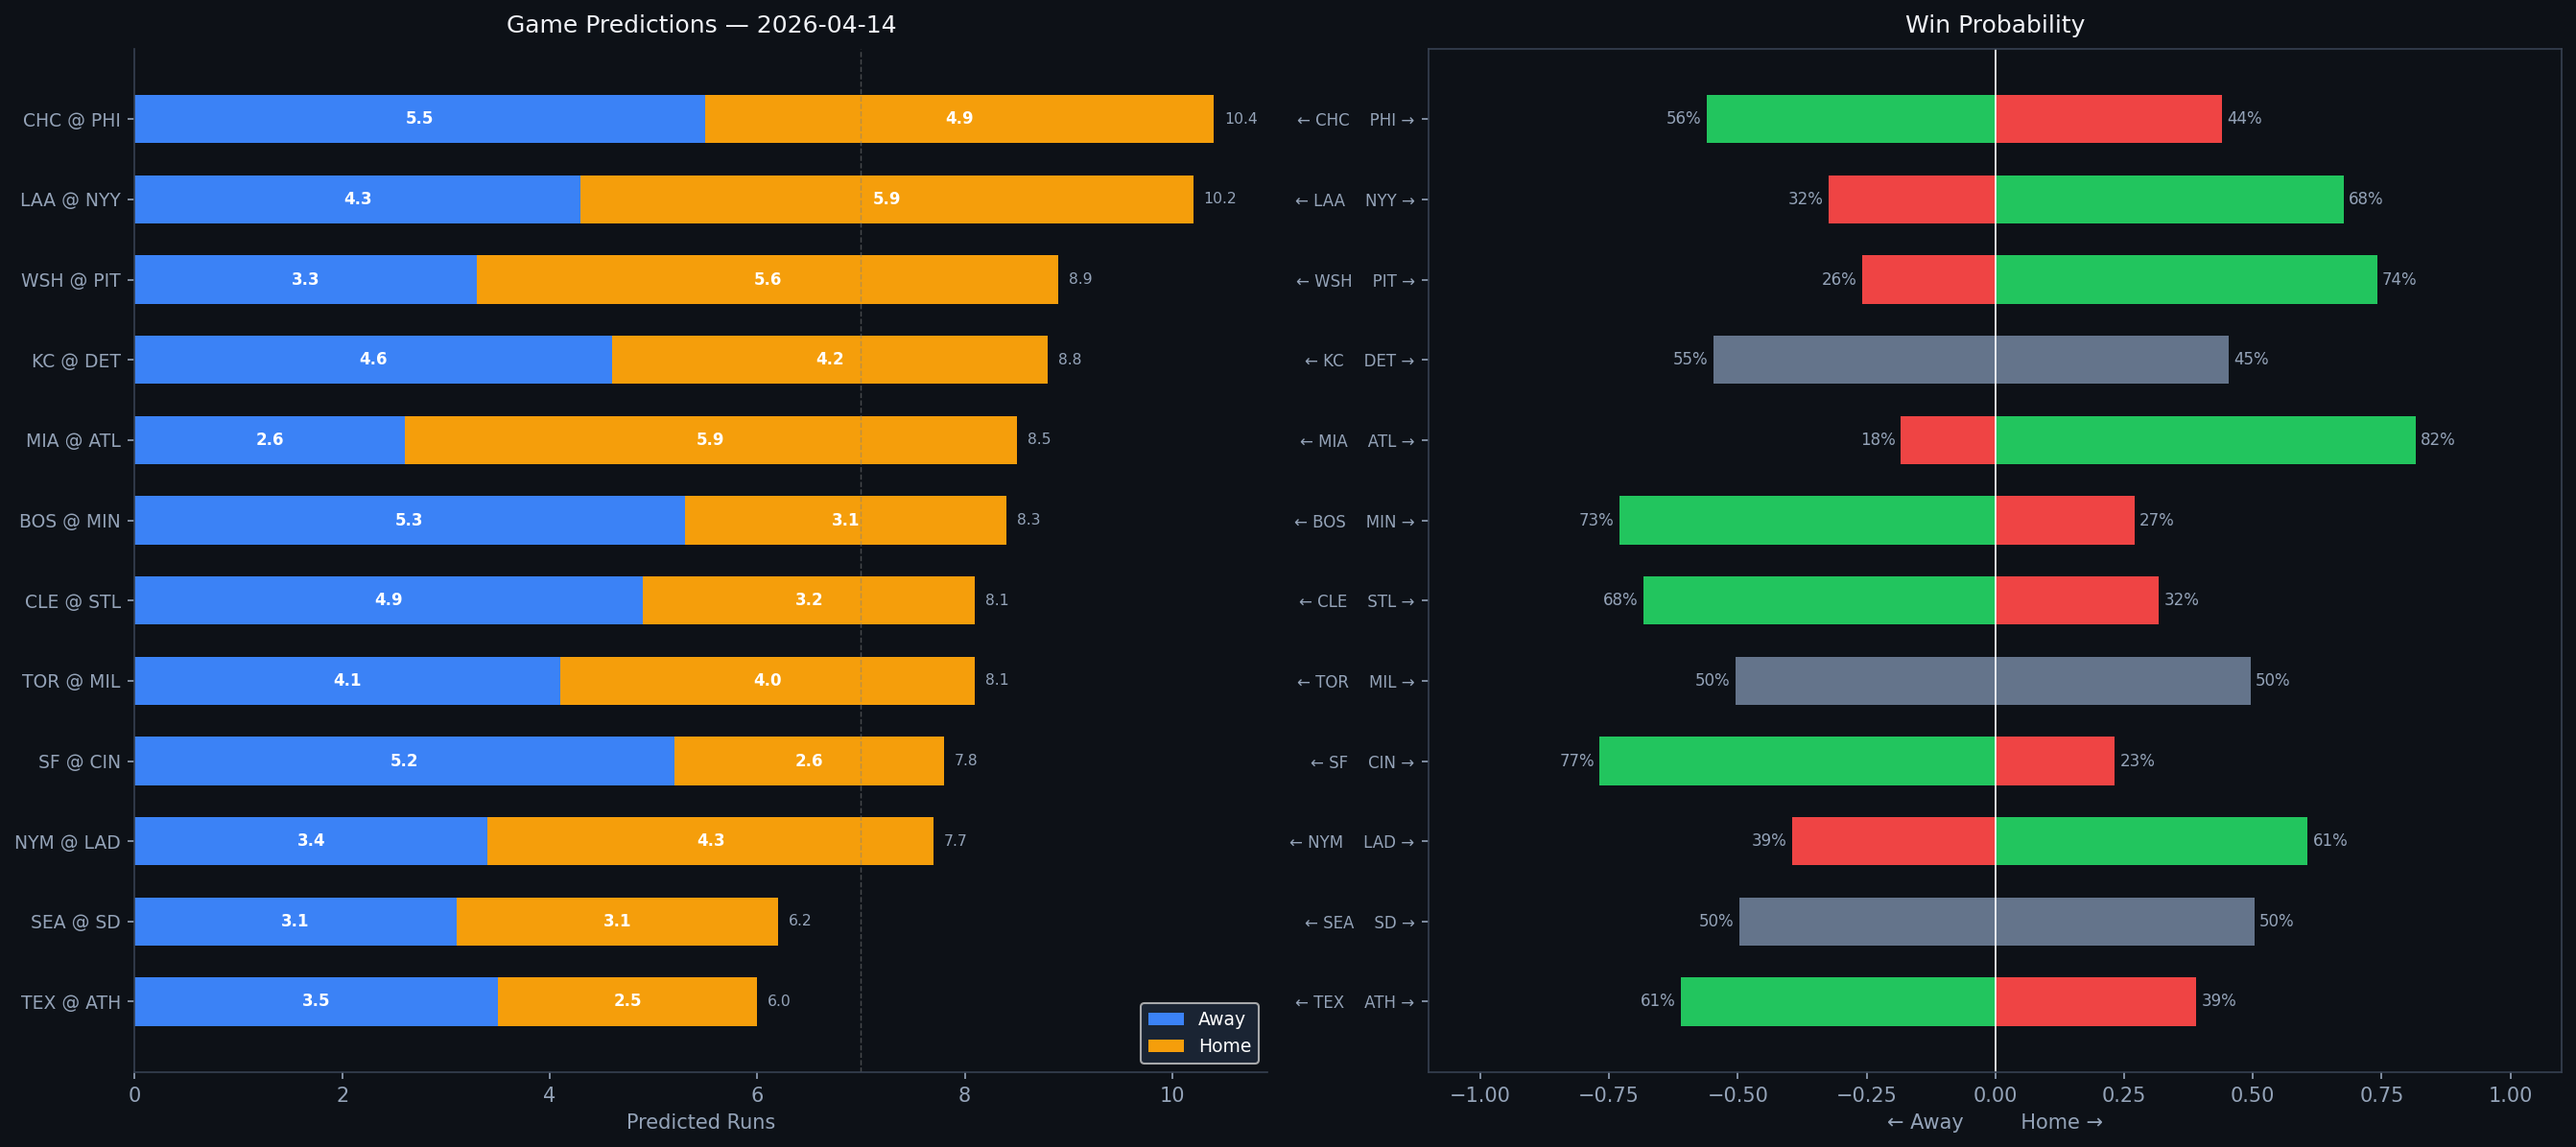
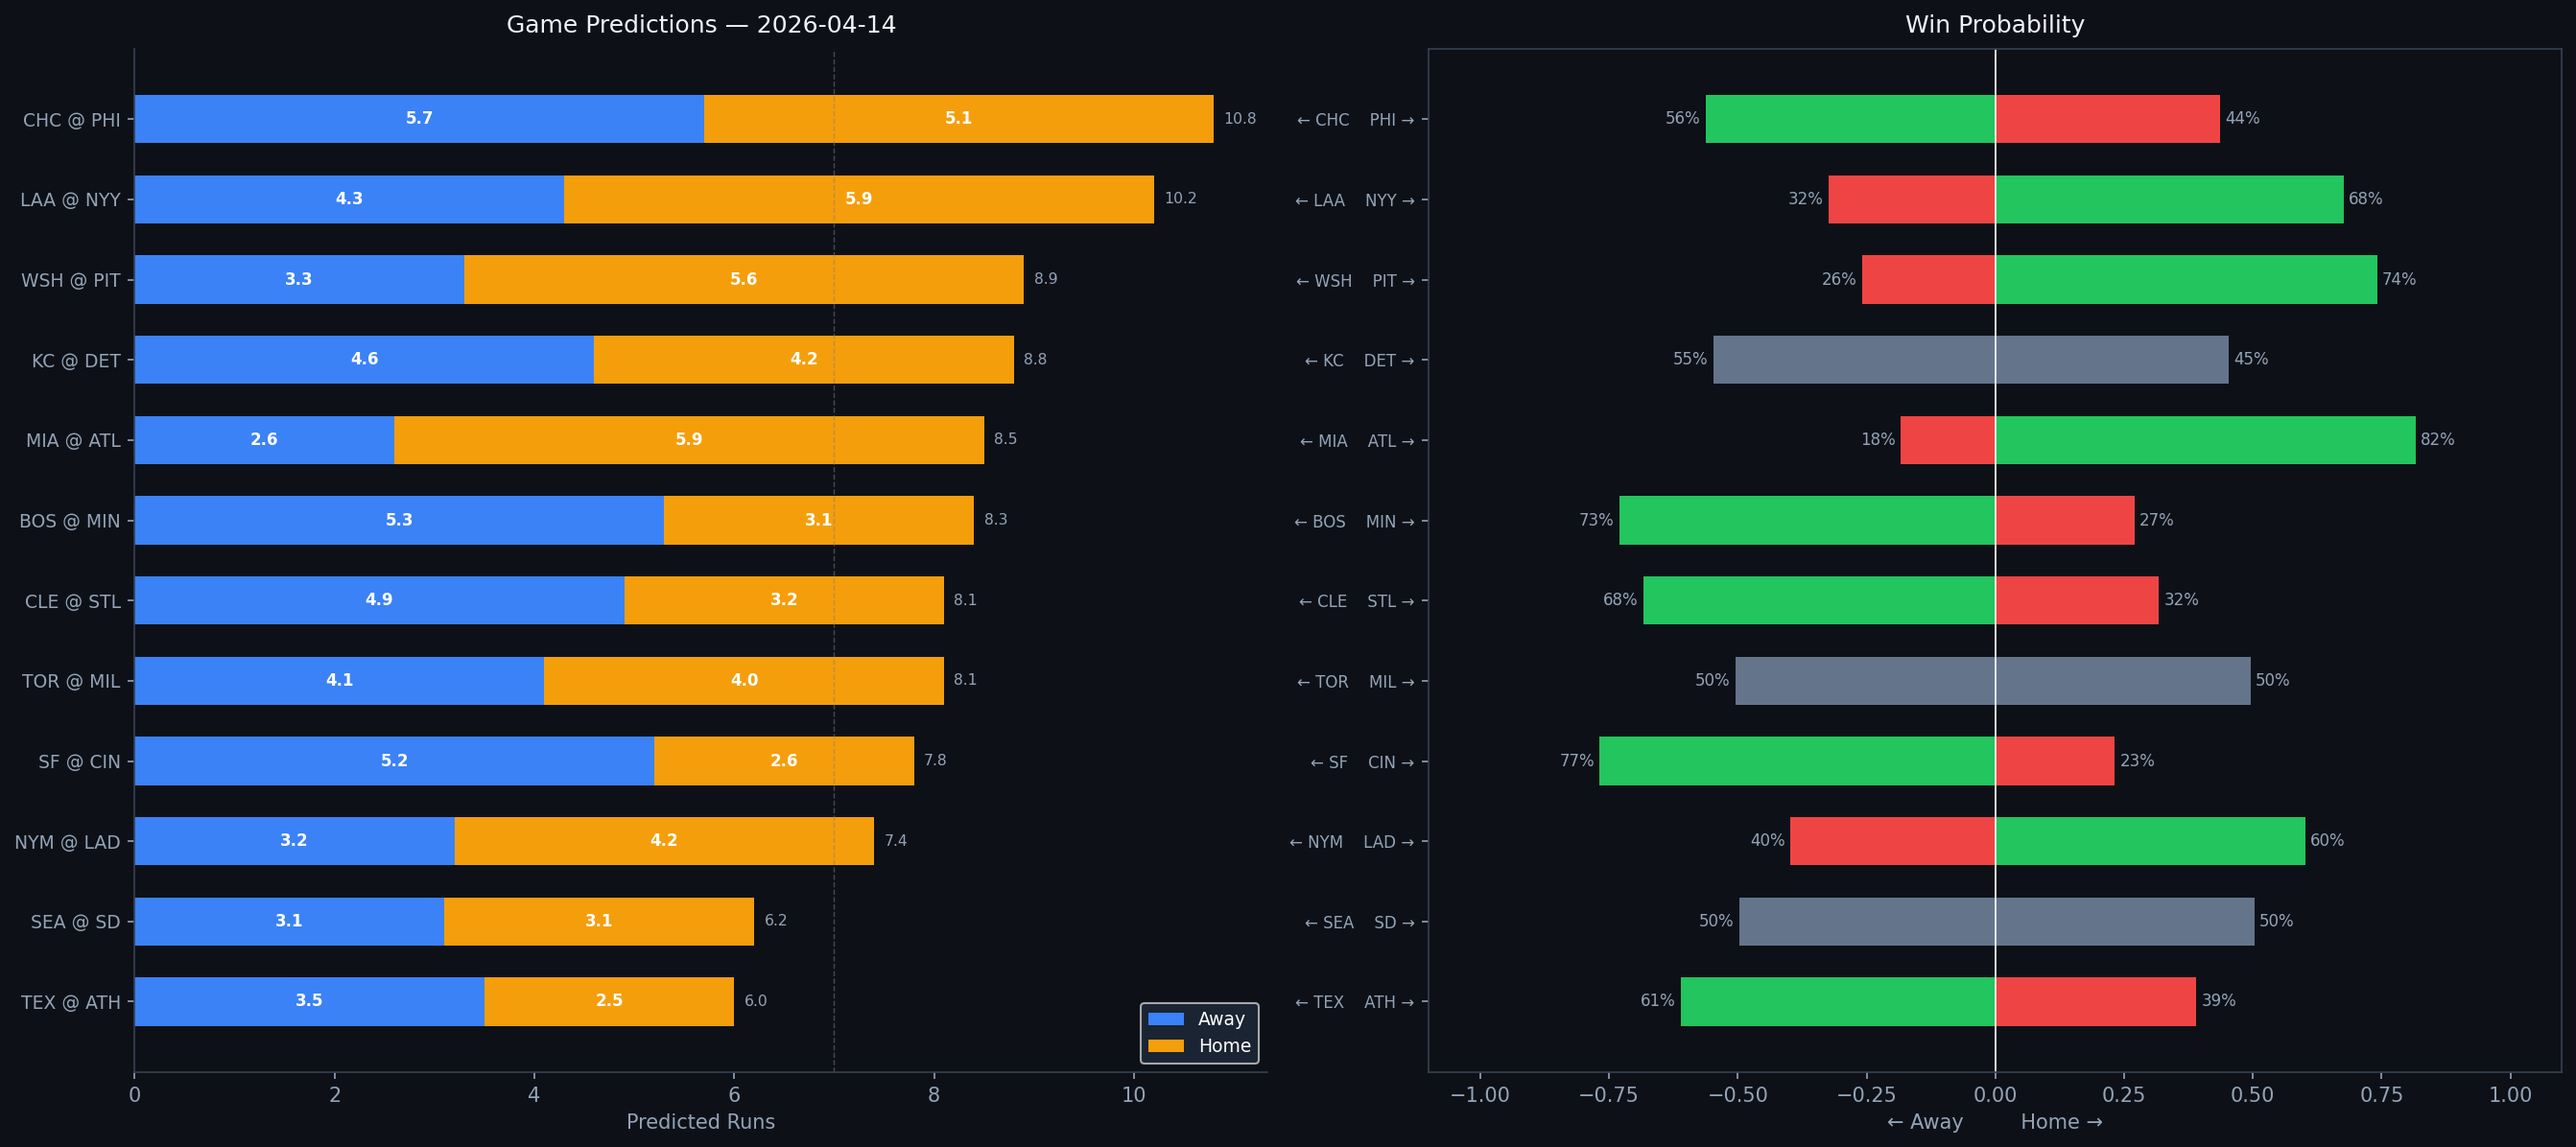
predictions: 2026-04-14 [skip ci]

diff --git a/docs/index.html b/docs/index.html
@@ -99,16 +99,16 @@
           
         <tr>
           <td class="matchup">CHC @ PHI</td>
-          <td class="score">5.5 – 4.9</td>
+          <td class="score">5.7 – 5.1</td>
           <td class="winner-away">CHC</td>
           <td>44% / 56%</td>
-          <td class="total">10.4</td>
+          <td class="total">10.8</td>
           <td>0.757 / 0.765</td>
           <td>0.302 / 0.344</td>
           <td>11.7% / 15.0%</td>
           <td>Riley Martin (0.0)</td>
           <td>Aaron Nola (3.83)</td>
-          <td class="weather">72°F / 8mph / 10% rain</td>
+          <td class="weather">87°F / 13mph / 1% rain</td>
         </tr>
         <tr>
           <td class="matchup">LAA @ NYY</td>
@@ -121,7 +121,7 @@
           <td>14.2% / 9.8%</td>
           <td>Reid Detmers (4.76)</td>
           <td>Ryan Weathers (4.82)</td>
-          <td class="weather">72°F / 8mph / 10% rain</td>
+          <td class="weather">52°F / 11mph / 15% rain</td>
         </tr>
         <tr>
           <td class="matchup">WSH @ PIT</td>
@@ -134,7 +134,7 @@
           <td>9.3% / 9.5%</td>
           <td>Miles Mikolas (4.32)</td>
           <td>Mitch Keller (4.44)</td>
-          <td class="weather">49°F / 17mph / 91% rain</td>
+          <td class="weather">49°F / 17mph / 93% rain</td>
         </tr>
         <tr>
           <td class="matchup">KC @ DET</td>
@@ -147,7 +147,7 @@
           <td>11.6% / 11.1%</td>
           <td>Cole Ragans (3.72)</td>
           <td>Framber Valdez (3.39)</td>
-          <td class="weather">80°F / 12mph / 14% rain</td>
+          <td class="weather">81°F / 15mph / 12% rain</td>
         </tr>
         <tr>
           <td class="matchup">MIA @ ATL</td>
@@ -160,7 +160,7 @@
           <td>11.2% / 8.9%</td>
           <td>Max Meyer (5.12)</td>
           <td>Reynaldo López (3.89)</td>
-          <td class="weather">72°F / 8mph / 10% rain</td>
+          <td class="weather">78°F / 13mph / 1% rain</td>
         </tr>
         <tr>
           <td class="matchup">BOS @ MIN</td>
@@ -173,7 +173,7 @@
           <td>12.0% / 8.0%</td>
           <td>Sonny Gray (3.57)</td>
           <td>Mick Abel (6.19)</td>
-          <td class="weather">87°F / 11mph / 1% rain</td>
+          <td class="weather">87°F / 12mph / 0% rain</td>
         </tr>
         <tr>
           <td class="matchup">CLE @ STL</td>
@@ -199,7 +199,7 @@
           <td>10.5% / 11.1%</td>
           <td>Kevin Gausman (3.8)</td>
           <td>Jacob Misiorowski (4.15)</td>
-          <td class="weather">64°F / 6mph / 1% rain</td>
+          <td class="weather">72°F / 8mph / 10% rain</td>
         </tr>
         <tr>
           <td class="matchup">SF @ CIN</td>
@@ -212,20 +212,20 @@
           <td>13.1% / 7.7%</td>
           <td>Robbie Ray (3.92)</td>
           <td>Brady Singer (4.28)</td>
-          <td class="weather">78°F / 6mph / 0% rain 🏟</td>
+          <td class="weather">78°F / 8mph / 0% rain 🏟</td>
         </tr>
         <tr>
           <td class="matchup">NYM @ LAD</td>
-          <td class="score">3.4 – 4.3</td>
+          <td class="score">3.2 – 4.2</td>
           <td class="winner-home">LAD</td>
-          <td>61% / 39%</td>
-          <td class="total">7.7</td>
+          <td>60% / 40%</td>
+          <td class="total">7.4</td>
           <td>0.751 / 0.708</td>
           <td>0.402 / 0.332</td>
           <td>13.5% / 10.5%</td>
           <td>Nolan McLean (2.23)</td>
           <td>Yoshinobu Yamamoto (2.65)</td>
-          <td class="weather">87°F / 11mph / 1% rain</td>
+          <td class="weather">72°F / 8mph / 10% rain</td>
         </tr>
         <tr>
           <td class="matchup">SEA @ SD</td>
